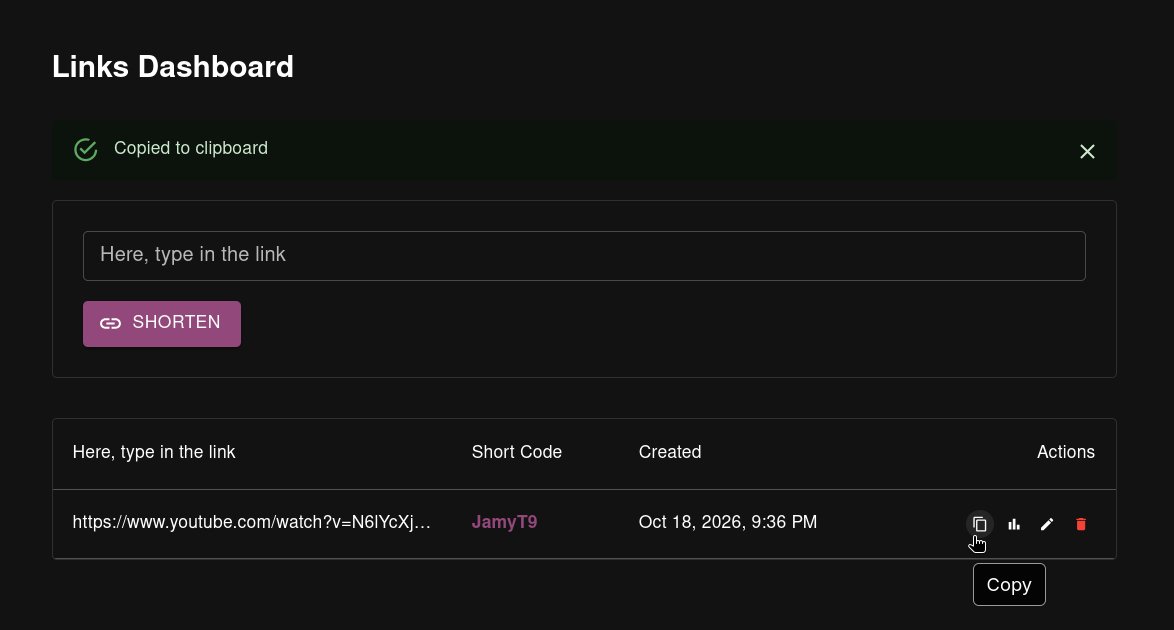
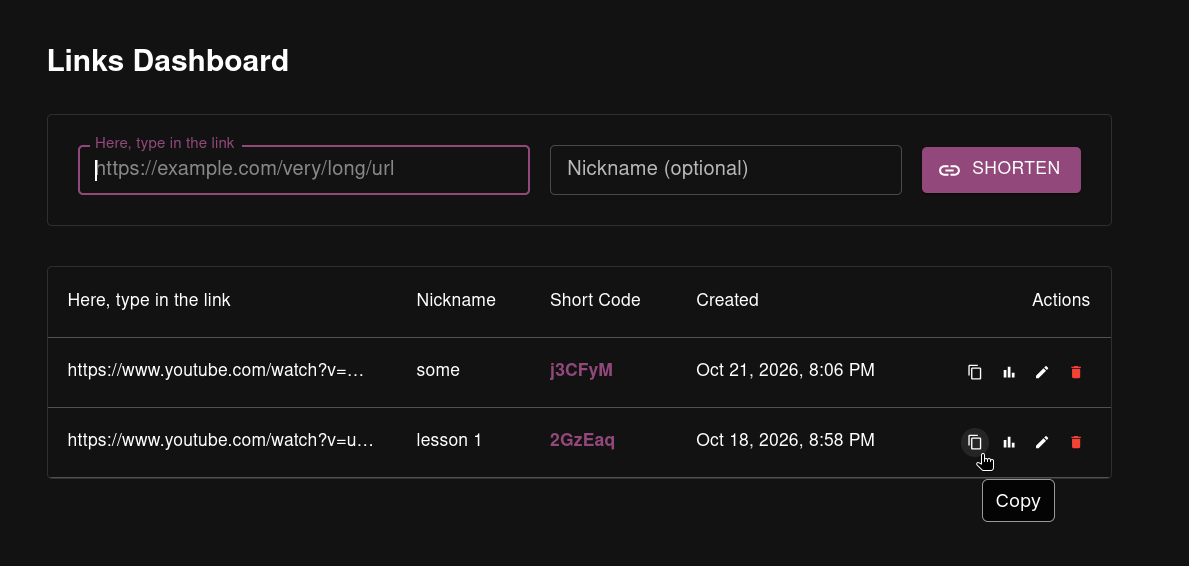
feat: improved redirects and added new hero image

diff --git a/client/src/routes/LoginRoute.tsx b/client/src/routes/LoginRoute.tsx
@@ -3,7 +3,7 @@ import { useMemo, useState } from "react";
 import { useTranslation } from "react-i18next";
 import { useForm } from "react-hook-form";
 import { zodResolver } from "@hookform/resolvers/zod";
-import { useLocation, useNavigate } from "react-router";
+import { Navigate, useLocation, useNavigate } from "react-router";
 import {
   Alert,
   Box,
@@ -18,7 +18,7 @@ import {
 import { useLoginMutation } from "../api/authApi";
 import { apiSlice } from "../api/apiSlice";
 import { type FetchBaseQueryError } from "@reduxjs/toolkit/query/react";
-import { useAppDispatch } from "../hooks";
+import { useAppDispatch, useAppSelector } from "../hooks";
 import { completeLogin } from "../features/auth/authThunks";
 import SEO from "../components/SEO";
 
@@ -33,6 +33,7 @@ const loginSchema = (messages: {
 type LoginForm = z.infer<ReturnType<typeof loginSchema>>;
 
 function LoginRoute() {
+  const user = useAppSelector((state) => state.auth.user);
   const { t } = useTranslation(["login", "validation"]);
   const navigate = useNavigate();
   const location = useLocation();
@@ -58,6 +59,10 @@ function LoginRoute() {
     handleSubmit,
     formState: { errors },
   } = useForm<LoginForm>({ resolver: zodResolver(schema) });
+
+  if (user) {
+    return <Navigate to="/" replace />;
+  }
 
   const onSubmit = async (values: LoginForm) => {
     setServerError(null);

diff --git a/client/src/routes/RegisterRoute.tsx b/client/src/routes/RegisterRoute.tsx
@@ -2,7 +2,7 @@ import { z } from "zod";
 import { useMemo, useState } from "react";
 import { useForm } from "react-hook-form";
 import { zodResolver } from "@hookform/resolvers/zod";
-import { useNavigate } from "react-router";
+import { Navigate, useNavigate } from "react-router";
 import {
   Alert,
   Box,
@@ -16,6 +16,7 @@ import {
 import { useTranslation } from "react-i18next";
 import { useCreateUserMutation } from "../api/usersApi";
 import { type FetchBaseQueryError } from "@reduxjs/toolkit/query/react";
+import { useAppSelector } from "../hooks";
 import SEO from "../components/SEO";
 
 const registerSchema = (messages: {
@@ -32,6 +33,7 @@ const registerSchema = (messages: {
 type RegisterForm = z.infer<ReturnType<typeof registerSchema>>;
 
 function RegisterRoute() {
+  const user = useAppSelector((state) => state.auth.user);
   const { t } = useTranslation(["register", "validation"]);
   const navigate = useNavigate();
   const [createUser, { isLoading }] = useCreateUserMutation();
@@ -50,6 +52,10 @@ function RegisterRoute() {
     handleSubmit,
     formState: { errors },
   } = useForm<RegisterForm>({ resolver: zodResolver(schema) });
+
+  if (user) {
+    return <Navigate to="/" replace />;
+  }
 
   const onSubmit = async (values: RegisterForm) => {
     setServerError(null);
